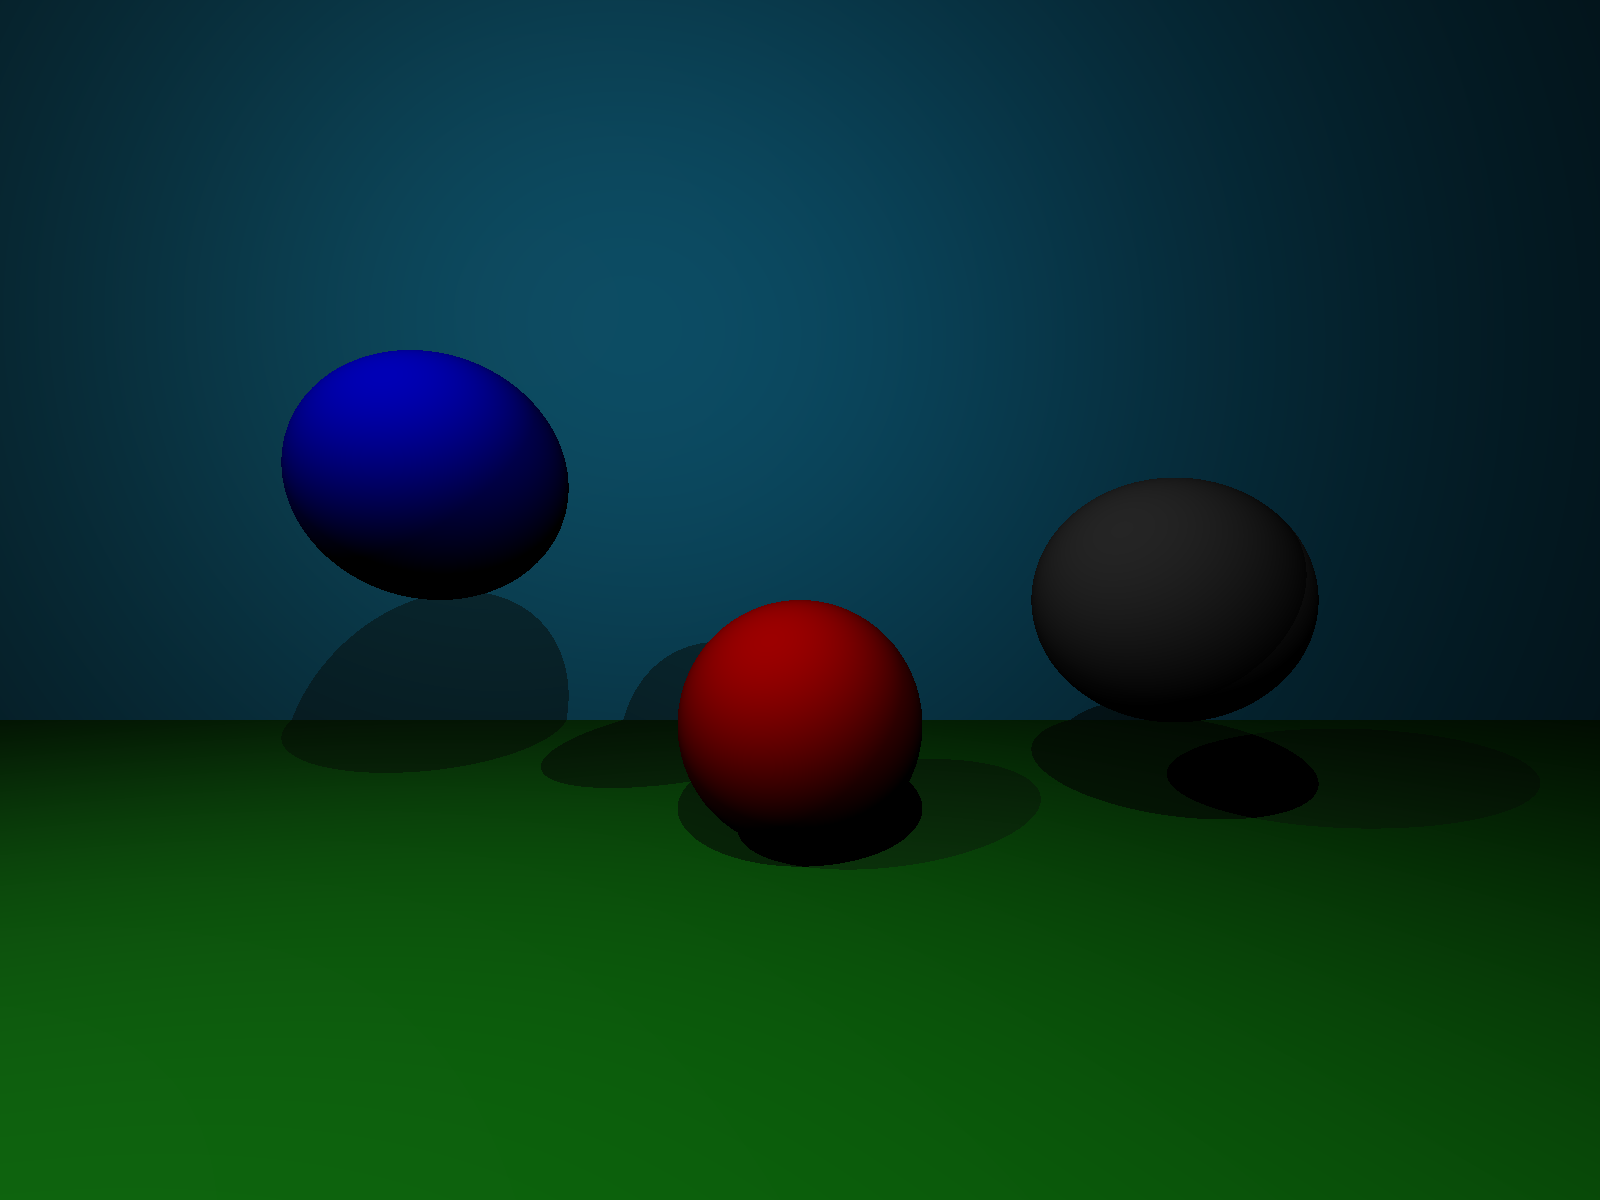
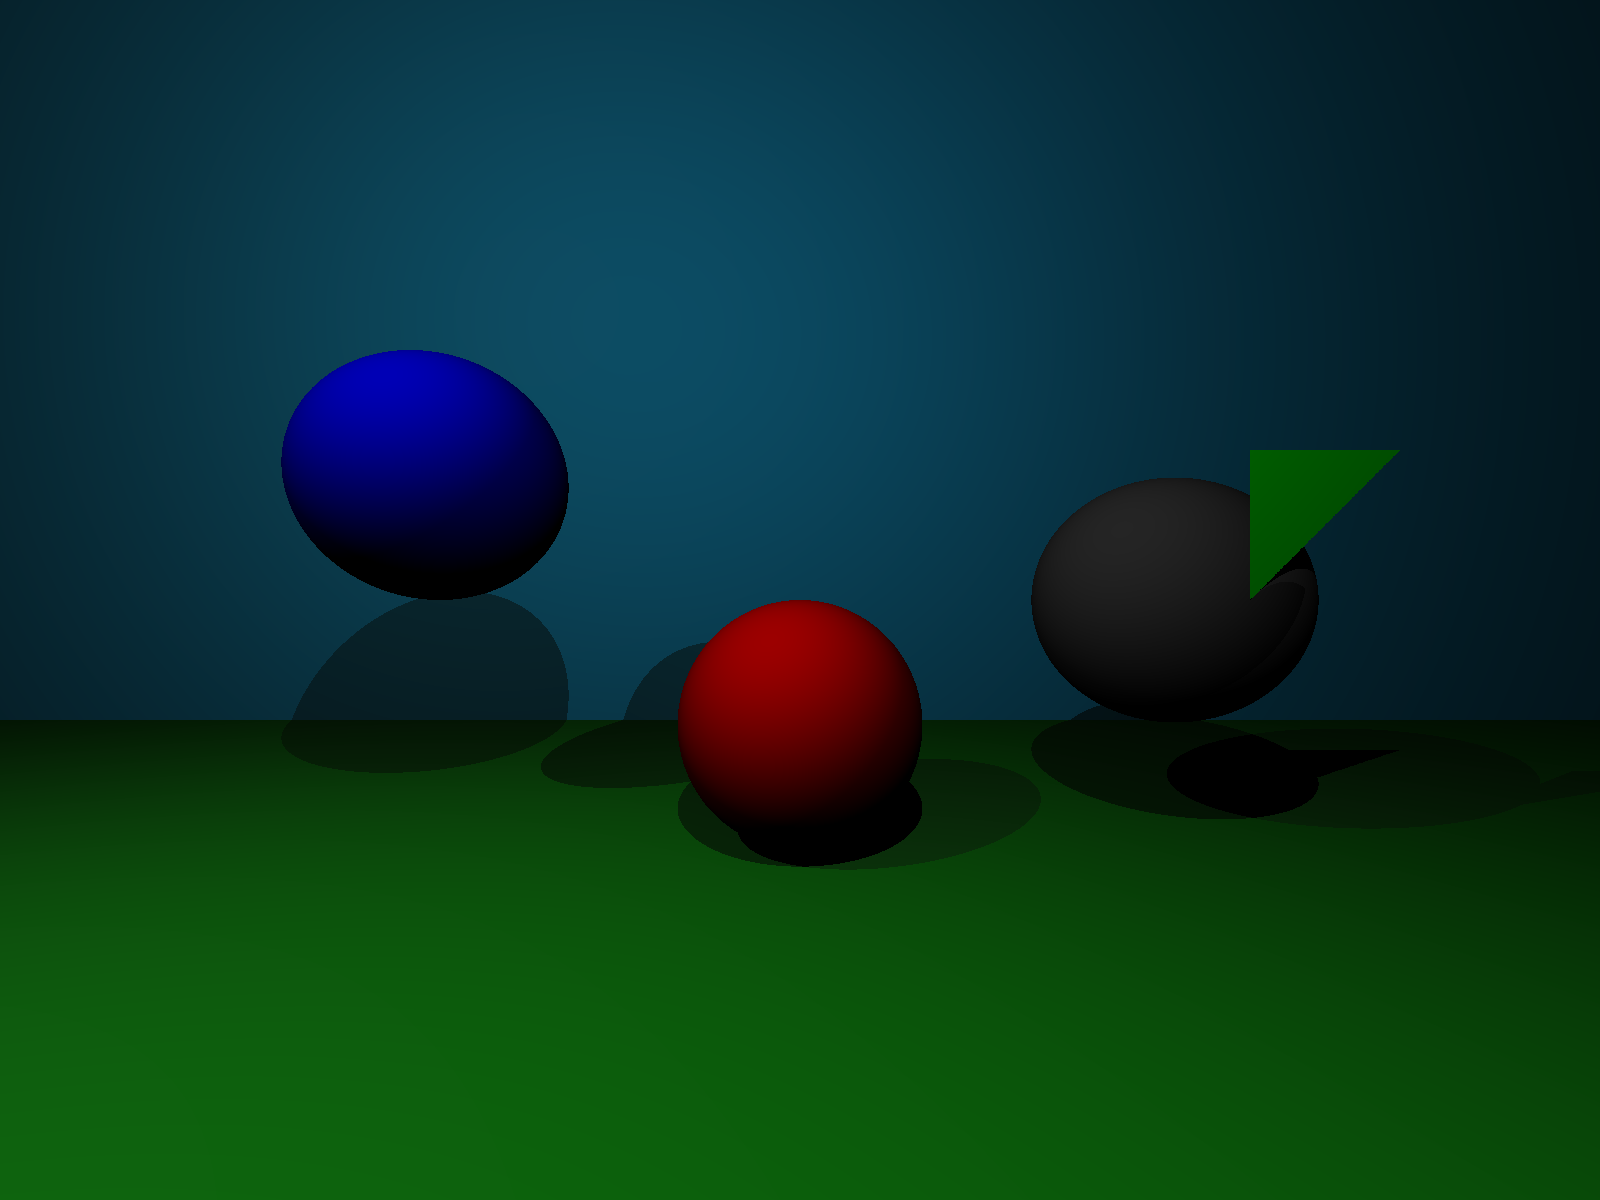
triangles

Changed region(s): [[0.7812, 0.37, 0.875, 0.4933]]

diff --git a/src/model/triangle.go b/src/model/triangle.go
@@ -1,0 +1,54 @@
+package model
+
+type Triangle struct {
+	P0    Vector
+	P1    Vector
+	P2    Vector
+	Color Color
+}
+
+func (t Triangle) GetColor() Color {
+	return t.Color
+}
+
+// Normal points towards side where points are numbered counter-clockwise
+func (t Triangle) Intersect(r Ray) (float64, bool) {
+	// n = (P1 - P0) x (P2 - P0)
+	n := t.P1.Sub(t.P0).Cross(t.P2.Sub(t.P0))
+	// now we have a plane with point P0 and normal n
+	// so let's use plane intersection logic
+	ln := r.Direction.Dot(n)
+	if ln == 0 {
+		// line and plane parallel
+		return 0, false
+	}
+	d := t.P0.Sub(r.Origin).Dot(n) / ln
+	if d <= 0 {
+		return 0, false
+	}
+
+	// we have an intersection with the plane,
+	// now we need to decide whether the point (x) will be in the triangle
+	x := PointFromRay(r, d)
+
+	// (P1 - P0) x (X - P0) . n >= 0
+	if t.P1.Sub(t.P0).Cross(x.Sub(t.P0)).Dot(n) < 0 {
+		return 0, false
+	}
+
+	// (P2 - P1) x (X - P1) . n >= 0
+	if t.P2.Sub(t.P1).Cross(x.Sub(t.P1)).Dot(n) < 0 {
+		return 0, false
+	}
+
+	// (P0 - P2) x (X - P2) . n >= 0
+	if t.P0.Sub(t.P2).Cross(x.Sub(t.P2)).Dot(n) < 0 {
+		return 0, false
+	}
+
+	return d, true
+}
+
+func (t Triangle) SurfaceNormal(Vector) Vector {
+	return t.P1.Sub(t.P0).Cross(t.P2.Sub(t.P0)).Times(1)
+}

diff --git a/src/model/triangle_test.go b/src/model/triangle_test.go
@@ -1,0 +1,58 @@
+package model
+
+import "testing"
+
+func TestTriangleIntersect(t *testing.T) {
+	for i, tt := range []struct {
+		t         Triangle
+		r         Ray
+		want      float64
+		wantTruth bool
+	}{
+		{
+			t: Triangle{
+				P0: Vector{1, 0, 0},
+				P1: Vector{0, 1, 0},
+				P2: Vector{0, 0, 1},
+			},
+			r: Ray{
+				Origin:    Vector{0, 0, 0},
+				Direction: Vector{0, 0, -1},
+			},
+			want:      0.0,
+			wantTruth: false,
+		},
+	} {
+		got, gotTruth := tt.t.Intersect(tt.r)
+		if gotTruth != tt.wantTruth {
+			t.Errorf("%d) incorrect bool value; got %v want %v", i, gotTruth, tt.wantTruth)
+			continue
+		}
+		if got != tt.want {
+			t.Errorf("%d) got %v want %v", i, got, tt.want)
+		}
+	}
+}
+
+func TestTriangleSurfaceNormal(t *testing.T) {
+	for i, tt := range []struct {
+		t    Triangle
+		v    Vector
+		want Vector
+	}{
+		{
+			t: Triangle{
+				P0: Vector{1, 0, 0},
+				P1: Vector{0, 1, 0},
+				P2: Vector{0, 0, 1},
+			},
+			v:    Vector{1, 1, 1},
+			want: Vector{1, 1, 1},
+		},
+	} {
+		got := tt.t.SurfaceNormal(tt.v)
+		if got != tt.want {
+			t.Errorf("%d) got %v want %v", i, got, tt.want)
+		}
+	}
+}

diff --git a/src/model/worker.go b/src/model/worker.go
@@ -54,7 +54,7 @@ func closestIntersection(ray Ray, objects []Object) *hit {
 	var objectHit Object
 	d := math.MaxFloat64
 	for _, o := range objects {
-		if distance, ok := o.Intersect(ray); ok && distance >= 0 && distance < d {
+		if distance, ok := o.Intersect(ray); ok && distance < d {
 			d = distance
 			objectHit = o
 		}
@@ -64,7 +64,7 @@ func closestIntersection(ray Ray, objects []Object) *hit {
 	}
 	return &hit{
 		object: objectHit,
-		point:  ray.Origin.Add(ray.Direction.Times(d)),
+		point:  PointFromRay(ray, d),
 	}
 }
 

diff --git a/src/main.go b/src/main.go
@@ -26,6 +26,7 @@ func main() {
 	scene.Add(model.Sphere{model.Vector{-3, 1, -5}, 1.0, model.NewColor(0, 0, 255)})
 	scene.Add(model.NewPlane(model.Vector{0, 0, -10}, ex, ey, model.NewColor(50, 200, 240)))
 	scene.Add(model.NewPlane(model.Vector{0, -2, 0}, ez, ex, model.NewColor(45, 200, 45)))
+	scene.Add(model.Triangle{model.Vector{3, 0, -4}, model.Vector{4, 1, -4}, model.Vector{3, 1, -4}, model.NewColor(0, 255, 0)})
 
 	img := model.Render(scene, NUMWORKERS)
 	img.Save("out.png")

diff --git a/src/model/plane_test.go b/src/model/plane_test.go
@@ -23,14 +23,14 @@ func TestPlaneIntersect(t *testing.T) {
 		},
 		{
 			p: Plane{
-				Point:  Vector{1, 1, -5},
+				Point:  Vector{1, 1, 5},
 				Normal: Vector{1, 1, 1}.Normalize(),
 			},
 			r: Ray{
 				Origin:    Vector{0, 0, 0},
 				Direction: Vector{6, 1, 4}.Normalize(),
 			},
-			want:      -1.985484515258323,
+			want:      4.63279720226942,
 			wantTruth: true,
 		},
 	} {

diff --git a/src/model/sphere.go b/src/model/sphere.go
@@ -33,6 +33,9 @@ func (s Sphere) Intersect(r Ray) (float64, bool) {
 
 	// only return closest intersection point
 	d := -loc - math.Sqrt(det)
+	if d <= 0 {
+		return 0, false
+	}
 	return d, true
 }
 

diff --git a/src/model/plane.go b/src/model/plane.go
@@ -26,6 +26,9 @@ func (p Plane) Intersect(r Ray) (float64, bool) {
 		return 0, false
 	}
 	d := p.Point.Sub(r.Origin).Dot(p.Normal) / ln
+	if d <= 0 {
+		return 0, false
+	}
 	return d, true
 }
 

diff --git a/src/model/vector.go b/src/model/vector.go
@@ -70,3 +70,7 @@ func NewRay(o, d Vector) Ray {
 		Direction: d.Normalize(),
 	}
 }
+
+func PointFromRay(r Ray, d float64) Vector {
+	return r.Origin.Add(r.Direction.Times(d))
+}
